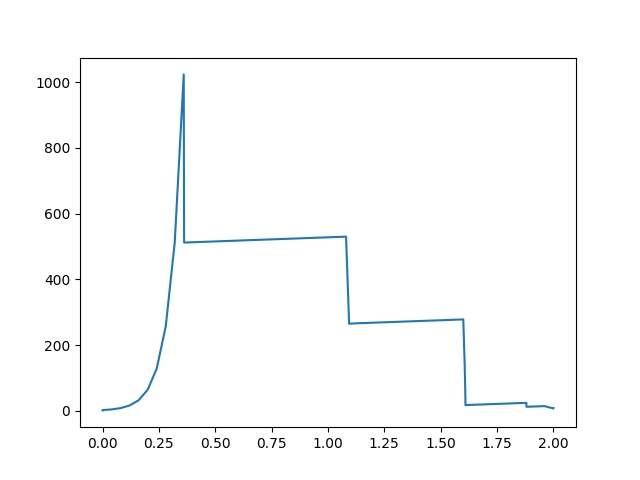
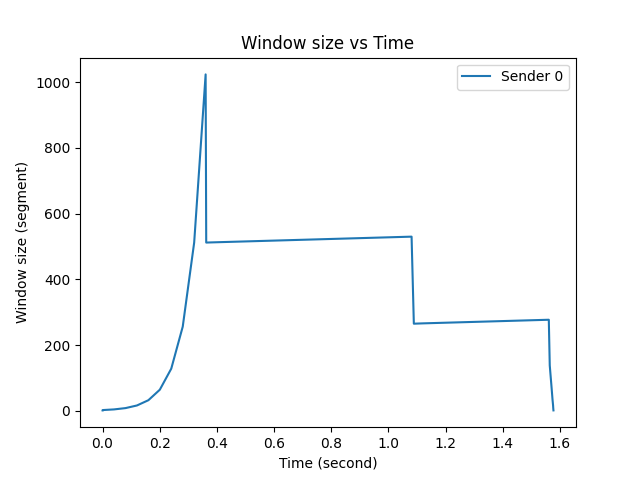
Added throughput graph generator. Found timeout errors in 50% drop rate and 50% delay tests.

diff --git a/logger/graph.py b/logger/graph.py
@@ -3,7 +3,7 @@
 import matplotlib.pyplot as plt
 import sys
 
-def main (file_name):
+def windowGraph (file_name):
   f = open (file_name, "r")
   lines = f.readlines ()
 
@@ -36,12 +36,72 @@ def main (file_name):
     x[i].append (time - offset)
     y[i].append (window_size)
 
-  
+  plt.clf () 
   for i in range (len (x)):
-    plt.plot (x[i], y[i])
+    plt.plot (x[i], y[i], label = ("Sender %d" % i))
+    plt.title ("Window size vs Time")
+    plt.xlabel ("Time (second)")
+    plt.ylabel ("Window size (segment)")
+    plt.legend (loc="upper right")
     plt.savefig ("output_window_size.png")
 
+  f.close ()
 
+def tputGraph (file_name):
+  f = open (file_name, "r")
+  lines = f.readlines ()
+
+  first = False
+  offset = 0
+  i = -1
+  x = []
+  y = []
+  for line in lines:
+    raw = line.split ()
+    if len (raw) == 0:
+      continue
+
+    if "----begin----" in raw[0]:
+      x.append ([])
+      y.append ([])
+      i += 1
+      first = True
+      continue
+
+    raw_time = raw[0]
+    written_bytes = float (raw[1])
+    
+    time = raw_time.split (":") 
+    time = float (time[0]) * 3600 + float (time[1]) * 60 + float (time[2])
+    if first:
+      offset = time
+      first = False
+
+    time = time - offset
+    if time > 0:
+      x[i].append (time)
+      y[i].append ((written_bytes / 1024) / time)
+
+  plt.clf () 
+  for i in range (len (x)):
+    plt.plot (x[i], y[i])
+    plt.plot (x[i], y[i], label = ("Receiver %d" % i))
+    plt.title ("Throughput per flow vs Time")
+    plt.xlabel ("Time (second)")
+    plt.ylabel ("Throughput (KB)")
+    plt.legend (loc="upper left")
+    plt.savefig ("output_tput.png")
+
+  f.close ()
+
+
+def main (argv):
+  if len (argv) != 3:
+    print ("Usage: graph <window_log> <tput_log>")
+    exit (0)
+
+  windowGraph (argv[1])
+  tputGraph (argv[2])
 
 if __name__ == '__main__':
-  main (sys.argv[1])
+  main (sys.argv)
